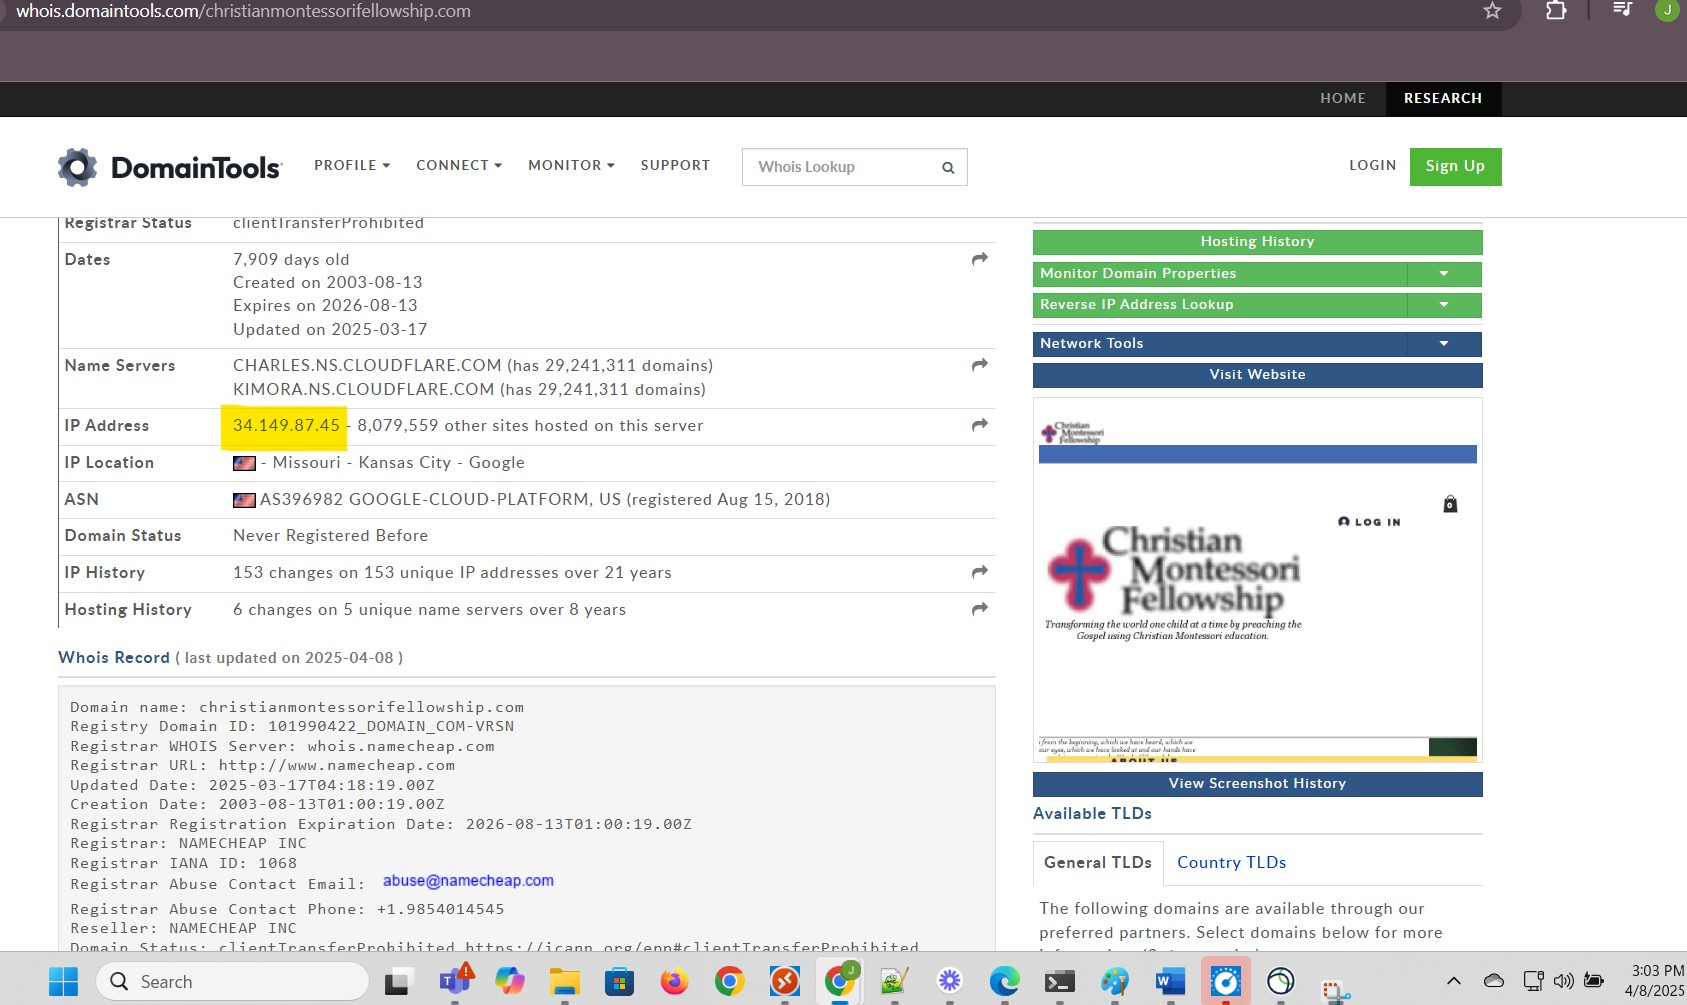
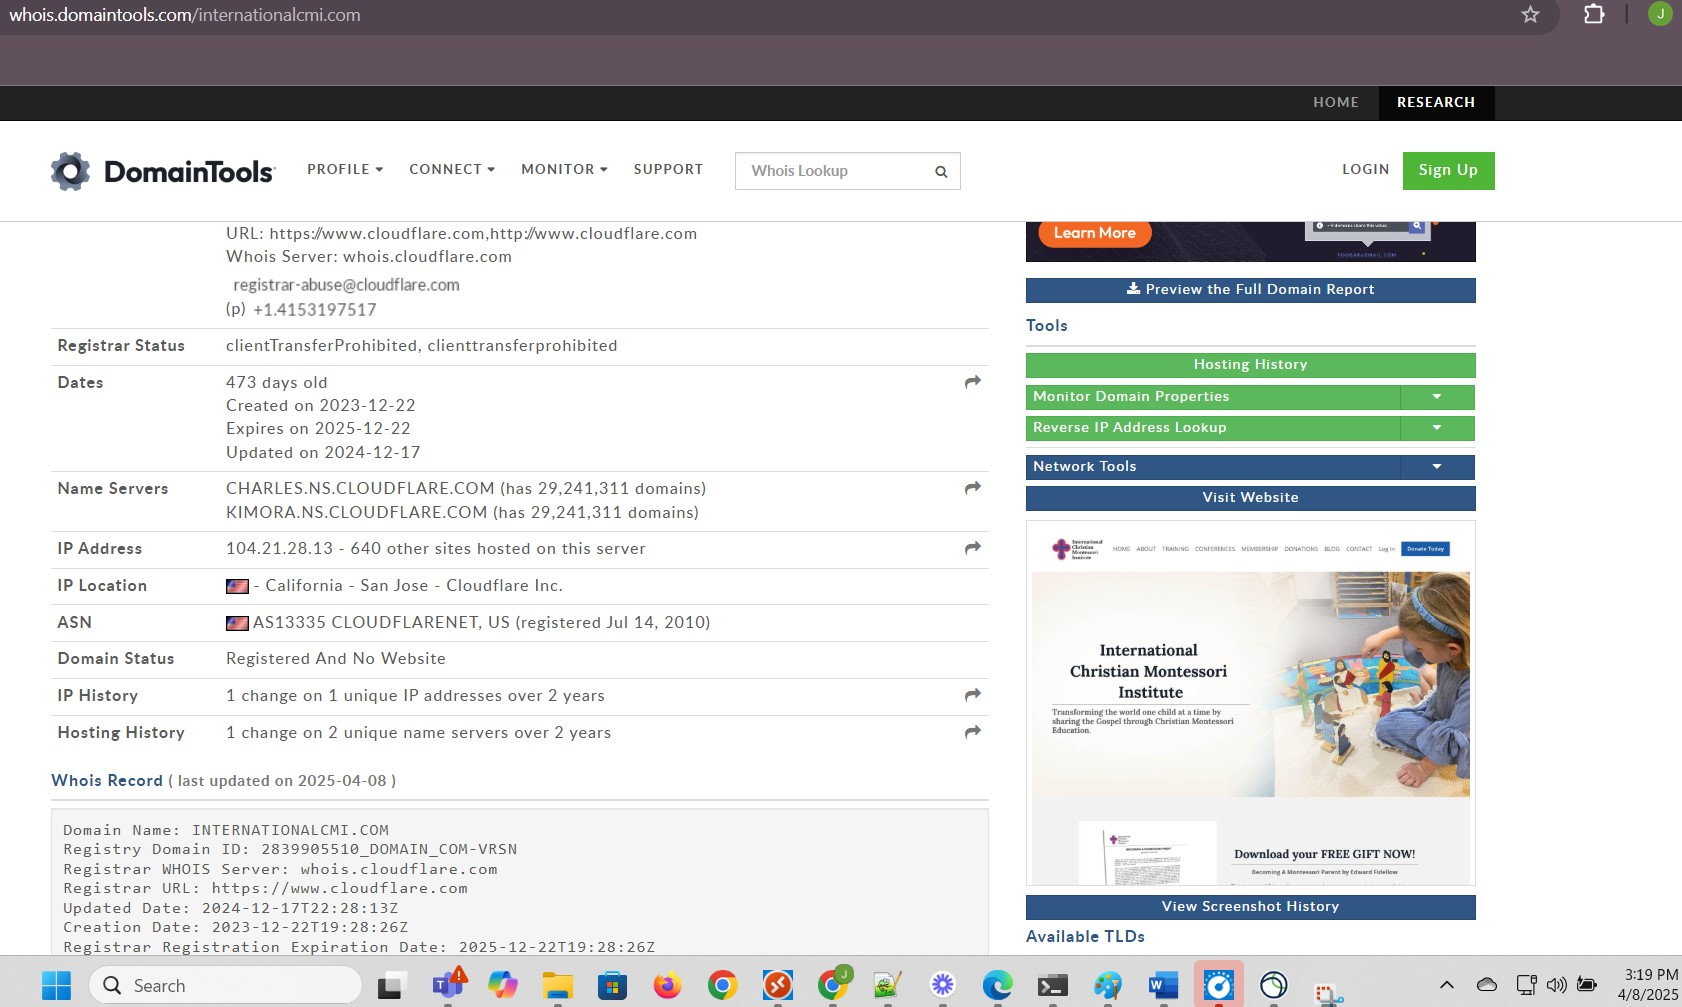
Change picture.

diff --git a/blog/2025/03/31/23/06/book-info-20250331-2306.php b/blog/2025/03/31/23/06/book-info-20250331-2306.php
@@ -23,9 +23,11 @@
 		   <div><img src=\"/blog/2025/03/31/23/06/img/clickSelectPlan.jpg\" alt=\"Click Select plan\" width=\"1852\" height=\"998\"></div>
 		   <p>The initial result was <span class=\"cod\">Invalid nameservers</span>:</p>
 		   <div><img src=\"/blog/2025/03/31/23/06/img/invalidNameservers.jpg\" alt=\"Invalid nameservers\" width=\"1860\" height=\"1003\"></div>
-		   <p>I found at <a href=\"https://whois.domaintools.com/christianmontessorifellowship.com\">https://whois.domaintools.com/christianmontessorifellowship.com</a> the IP address of the hosting server</span>:</p>
-		   <div><img src=\"/blog/2025/03/31/23/06/img/iPAddressOfTheHostingServer.jpg\" alt=\"IP address of the hosting server\" width=\"1687\" height=\"1005\"></div>
+		   <p>I found at <a href=\"https://whois.domaintools.com/internationalcmi.com\">https://whois.domaintools.com/internationalcmi.com</a> the IP address of the hosting server</span>:</p>
+		   <div><img src=\"/blog/2025/03/31/23/06/img/iPAddressOfTheHostingServer.jpg\" alt=\"IP address of the hosting server\" width=\"1682\" height=\"1007\"></div>
 		   <p>I scrolled down and clicked <span class=\"cod\">Add record</span>:</p>
+		   <div><img src=\"/blog/2025/03/31/23/06/img/addRecord.jpg\" alt=\"Click Add record\" width=\"1847\" height=\"1007\"></div>
+		   <p>I provided the details for the new <span class=\"cod\">A</span> record and clicked <span class=\"cod\">Save</span>:</p>
 		   <div><img src=\"/blog/2025/03/31/23/06/img/addRecord.jpg\" alt=\"Click Add record\" width=\"1847\" height=\"1007\"></div>
 		   <div>Published: 11:06 PM GMT · Mar 31, 2025</div>\n";
 ?>
